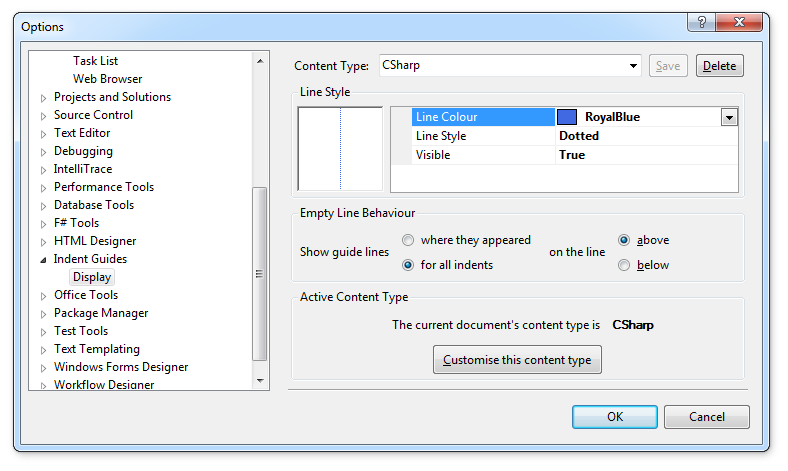
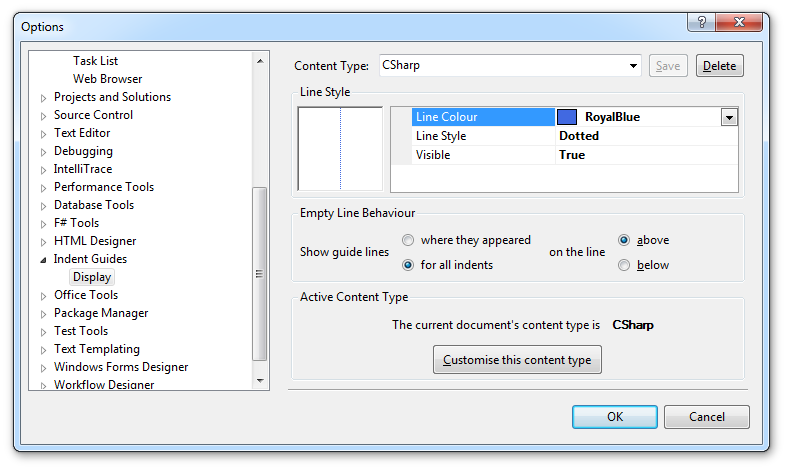
v9.2: Fixed crashes for active non-editor windows when opening options dialog Updated screenshots.

Changed region(s): [[0.0, 0.9512, 0.9746, 0.9809], [0.9746, 0.0297, 1.0, 0.9512]]

diff --git a/DisplayOptions.cs b/DisplayOptions.cs
@@ -1,6 +1,7 @@
 using System;
 using System.Collections.Generic;
 using System.ComponentModel;
+using System.Diagnostics;
 using System.Drawing;
 using System.Linq;
 using System.Runtime.InteropServices;
@@ -73,13 +74,20 @@ namespace IndentGuide
 
         public override void LoadSettingsFromStorage()
         {
-            var reg = RegistryRoot;
             Themes.Clear();
-            foreach (var themeName in reg.GetSubKeyNames())
+            try
             {
-                var theme = IndentTheme.Load(reg, themeName);
-                if (theme.IsDefault) Service.DefaultTheme = theme;
-                Themes[theme.Name] = theme;
+                var reg = RegistryRoot;
+                foreach (var themeName in reg.GetSubKeyNames())
+                {
+                    var theme = IndentTheme.Load(reg, themeName);
+                    if (theme.IsDefault) Service.DefaultTheme = theme;
+                    Themes[theme.Name] = theme;
+                }
+            }
+            catch(Exception ex)
+            {
+                Trace.WriteLine(string.Format("LoadSettingsFromStorage: {0}", ex), "IndentGuide");
             }
             Service.OnThemesChanged();
         }
@@ -99,10 +107,19 @@ namespace IndentGuide
 
         public override void SaveSettingsToStorage()
         {
-            var reg = RegistryRootWritable;
-            foreach (var theme in Themes.Values)
+            try
             {
-                theme.Save(reg);
+                using (var reg = RegistryRootWritable)
+                {
+                    foreach (var theme in Themes.Values)
+                    {
+                        theme.Save(reg);
+                    }
+                }
+            }
+            catch(Exception ex)
+            {
+                Trace.WriteLine(string.Format("SaveSettingsToStorage: {0}", ex), "IndentGuide");
             }
         }
 
@@ -117,29 +134,30 @@ namespace IndentGuide
         protected override void OnActivate(CancelEventArgs e)
         {
             base.OnActivate(e);
-            ((DisplayOptionsControl)Window).LocalThemes = 
-                Service.Themes.Values.OrderBy(t => t).Select(t => t.Clone()).ToList();
-            
-            IVsTextView view = null;
-            IWpfTextView wpfView = null;
-            TextManagerService.GetActiveView(0, null, out view);
-            if (view != null && (wpfView = EditorAdapters.GetWpfTextView(view)) != null)
+            var doc = (DisplayOptionsControl)Window;
+            doc.LocalThemes = Service.Themes.Values.OrderBy(t => t).Select(t => t.Clone()).ToList();
+
+            try
             {
-                ((DisplayOptionsControl)Window).CurrentContentType = wpfView.TextDataModel.ContentType.DisplayName;
+                IVsTextView view = null;
+                IWpfTextView wpfView = null;
+                TextManagerService.GetActiveView(0, null, out view);
+                wpfView = EditorAdapters.GetWpfTextView(view);
+                doc.CurrentContentType = wpfView.TextDataModel.ContentType.DisplayName;
             }
-            else
+            catch
             {
-                ((DisplayOptionsControl)Window).CurrentContentType = null;
+                doc.CurrentContentType = null;
             }
         }
 
         protected override void OnApply(DialogPage.PageApplyEventArgs e)
         {
-            var window = (DisplayOptionsControl)Window;
-            window.SaveIfRequired();
+            var doc = (DisplayOptionsControl)Window;
+            doc.SaveIfRequired();
             
-            var changedThemes = window.ChangedThemes;
-            var deletedThemes = window.DeletedThemes;
+            var changedThemes = doc.ChangedThemes;
+            var deletedThemes = doc.DeletedThemes;
             if (changedThemes.Any())
             {
                 foreach (var theme in changedThemes)
@@ -185,31 +203,38 @@ namespace IndentGuide
         
         private void Upgrade()
         {
-            if (RegistryRoot != null) return;
-
-            var vsRoot = VSRegistry.RegistryRoot(Microsoft.VisualStudio.Shell.Interop.__VsLocalRegistryType.RegType_UserSettings, true);
-
-            using (var newKey = vsRoot.CreateSubKey("IndentGuide"))
-            using (var key = vsRoot.OpenSubKey(SettingsRegistryPath))
+            try
             {
-                var theme = new IndentTheme(true);
-                if (key != null)
-                {
-                    theme.Name = (string)key.GetValue("Name", IndentTheme.DefaultThemeName);
-                    theme.EmptyLineMode = (EmptyLineMode)TypeDescriptor.GetConverter(typeof(EmptyLineMode))
-                        .ConvertFromInvariantString((string)key.GetValue("EmptyLineMode"));
+                if (RegistryRoot != null) return;
 
-                    theme.LineFormat.LineColor = (Color)TypeDescriptor.GetConverter(typeof(Color))
-                        .ConvertFromInvariantString((string)key.GetValue("LineColor"));
-                    theme.LineFormat.LineStyle = (LineStyle)TypeDescriptor.GetConverter(typeof(LineStyle))
-                        .ConvertFromInvariantString((string)key.GetValue("LineStyle"));
-                    theme.LineFormat.Visible = bool.Parse((string)key.GetValue("Visible"));
+                var vsRoot = VSRegistry.RegistryRoot(Microsoft.VisualStudio.Shell.Interop.__VsLocalRegistryType.RegType_UserSettings, true);
+
+                using (var newKey = vsRoot.CreateSubKey("IndentGuide"))
+                using (var key = vsRoot.OpenSubKey(SettingsRegistryPath))
+                {
+                    var theme = new IndentTheme(true);
+                    if (key != null)
+                    {
+                        theme.Name = (string)key.GetValue("Name", IndentTheme.DefaultThemeName);
+                        theme.EmptyLineMode = (EmptyLineMode)TypeDescriptor.GetConverter(typeof(EmptyLineMode))
+                            .ConvertFromInvariantString((string)key.GetValue("EmptyLineMode"));
+
+                        theme.LineFormat.LineColor = (Color)TypeDescriptor.GetConverter(typeof(Color))
+                            .ConvertFromInvariantString((string)key.GetValue("LineColor"));
+                        theme.LineFormat.LineStyle = (LineStyle)TypeDescriptor.GetConverter(typeof(LineStyle))
+                            .ConvertFromInvariantString((string)key.GetValue("LineStyle"));
+                        theme.LineFormat.Visible = bool.Parse((string)key.GetValue("Visible"));
+                    }
+
+                    theme.Save(newKey);
                 }
 
-                theme.Save(newKey);
+                vsRoot.DeleteSubKeyTree(SettingsRegistryPath, false);
             }
-
-            vsRoot.DeleteSubKeyTree(SettingsRegistryPath, false);
+            catch (Exception ex)
+            {
+                Trace.WriteLine(string.Format("Upgrade: {0}", ex), "IndentGuide");
+            }
         }
 
         #endregion

diff --git a/DisplayOptionsControl.cs b/DisplayOptionsControl.cs
@@ -1,10 +1,8 @@
 using System;
 using System.Collections.Generic;
-using System.ComponentModel;
+using System.Diagnostics;
 using System.Drawing;
-using System.Data;
 using System.Linq;
-using System.Text;
 using System.Windows.Forms;
 using Microsoft.VisualStudio.Shell;
 
@@ -38,17 +36,24 @@ namespace IndentGuide
             set
             {
                 _LocalThemes = value;
-                ChangedThemes.Clear();
-                DeletedThemes.Clear();
-                if (_LocalThemes.Count == 0)
+                try
                 {
-                    var defaultTheme = new IndentTheme(true);
-                    _LocalThemes.Add(defaultTheme);
-                    ChangedThemes.Add(defaultTheme);
-                    if (OptionsOwner != null) defaultTheme.Save(OptionsOwner.RegistryRootWritable);
-                }
+                    ChangedThemes.Clear();
+                    DeletedThemes.Clear();
+                    if (_LocalThemes.Count == 0)
+                    {
+                        var defaultTheme = new IndentTheme(true);
+                        _LocalThemes.Add(defaultTheme);
+                        ChangedThemes.Add(defaultTheme);
+                        if (OptionsOwner != null) defaultTheme.Save(OptionsOwner.RegistryRootWritable);
+                    }
 
-                Invoke((Action)UpdateThemeList);
+                    Invoke((Action)UpdateThemeList);
+                }
+                catch (Exception ex)
+                {
+                    Trace.WriteLine(string.Format("get_LocalThemes: {0}", ex), "IndentGuide");
+                }
             }
         }
 
@@ -66,30 +71,44 @@ namespace IndentGuide
 
         private void UpdateThemeList()
         {
-            cmbTheme.Items.Clear();
-            foreach (var theme in LocalThemes)
+            try
             {
-                cmbTheme.Items.Add(theme);
+                cmbTheme.Items.Clear();
+                foreach (var theme in LocalThemes)
+                {
+                    cmbTheme.Items.Add(theme);
+                }
+                if (cmbTheme.Items.Count > 0) cmbTheme.SelectedIndex = 0;
+                btnThemeDelete.Enabled = false;
+                btnThemeSaveAs.Enabled = false;
             }
-            if (cmbTheme.Items.Count > 0) cmbTheme.SelectedIndex = 0;
-            btnThemeDelete.Enabled = false;
-            btnThemeSaveAs.Enabled = false;
+            catch (Exception ex)
+            {
+                Trace.WriteLine(string.Format("UpdateThemeList: {0}", ex), "IndentGuide");
+            }
         }
 
         private void LoadControlStrings(IEnumerable<Control> controls)
         {
-            foreach (var control in controls)
+            try
             {
-                try
+                foreach (var control in controls)
                 {
-                    control.Text = ResourceLoader.LoadString(control.Name);
-                }
-                catch (InvalidOperationException) { }
+                    try
+                    {
+                        control.Text = ResourceLoader.LoadString(control.Name);
+                    }
+                    catch (InvalidOperationException) { }
 
-                if (control.Controls.Count > 0)
-                {
-                    LoadControlStrings(control.Controls.OfType<Control>());
+                    if (control.Controls.Count > 0)
+                    {
+                        LoadControlStrings(control.Controls.OfType<Control>());
+                    }
                 }
+            }
+            catch (Exception ex)
+            {
+                Trace.WriteLine(string.Format("LoadControlStrings: {0}", ex), "IndentGuide");
             }
         }
 
@@ -101,7 +120,14 @@ namespace IndentGuide
 
         private void cmbTheme_Format(object sender, ListControlConvertEventArgs e)
         {
-            e.Value = ((IndentTheme)e.ListItem).Name;
+            try
+            {
+                e.Value = ((IndentTheme)e.ListItem).Name;
+            }
+            catch
+            {
+                e.Value = (e.ListItem ?? "(null)").ToString();
+            }
         }
 
         private IndentTheme ActiveTheme = null;
@@ -199,18 +225,24 @@ namespace IndentGuide
 
         private void btnThemeDelete_Click(object sender, EventArgs e)
         {
-            if (ActiveTheme == null) return;
-            if (ActiveTheme.IsDefault) return;
+            if (ActiveTheme == null || ActiveTheme.IsDefault) return;
 
-            DeletedThemes.Add(ActiveTheme);
-            LocalThemes.Remove(ActiveTheme);
+            try
+            {
+                DeletedThemes.Add(ActiveTheme);
+                LocalThemes.Remove(ActiveTheme);
 
-            int i = cmbTheme.SelectedIndex;
-            cmbTheme.Items.Remove(ActiveTheme);
-            if (i < cmbTheme.Items.Count) cmbTheme.SelectedIndex = i;
-            else cmbTheme.SelectedIndex = cmbTheme.Items.Count - 1;
-            ActiveTheme = cmbTheme.SelectedItem as IndentTheme;
-            UpdateDisplay();
+                int i = cmbTheme.SelectedIndex;
+                cmbTheme.Items.Remove(ActiveTheme);
+                if (i < cmbTheme.Items.Count) cmbTheme.SelectedIndex = i;
+                else cmbTheme.SelectedIndex = cmbTheme.Items.Count - 1;
+                ActiveTheme = cmbTheme.SelectedItem as IndentTheme;
+                UpdateDisplay();
+            }
+            catch (Exception ex)
+            {
+                Trace.WriteLine(string.Format("btnThemeDelete_Click: {0}", ex), "IndentGuide");
+            }
         }
 
         private void chkEmptyLineBehaviour_CheckedChanged(object sender, EventArgs e)
@@ -233,16 +265,23 @@ namespace IndentGuide
 
         private void btnCustomizeThisContentType_Click(object sender, EventArgs e)
         {
-            var theme = LocalThemes.FirstOrDefault(t => t.Name.Equals(CurrentContentType,
-                StringComparison.InvariantCultureIgnoreCase));
-            if (theme == null)
+            try
             {
-                cmbTheme.Text = CurrentContentType;
-                btnThemeSaveAs.PerformClick();
+                var theme = LocalThemes.FirstOrDefault(t => t.Name.Equals(CurrentContentType,
+                    StringComparison.InvariantCultureIgnoreCase));
+                if (theme == null)
+                {
+                    cmbTheme.Text = CurrentContentType;
+                    btnThemeSaveAs.PerformClick();
+                }
+                else
+                {
+                    cmbTheme.SelectedItem = theme;
+                }
             }
-            else
+            catch (Exception ex)
             {
-                cmbTheme.SelectedItem = theme;
+                Trace.WriteLine(string.Format("btnCustomizeThisContentType_Click: {0}", ex), "IndentGuide");
             }
         }
 

diff --git a/IndentGuidePackage.cs b/IndentGuidePackage.cs
@@ -7,7 +7,7 @@ using Microsoft.VisualStudio.Shell;
 namespace IndentGuide
 {
     [PackageRegistration(UseManagedResourcesOnly = true)]
-    [InstalledProductRegistration("#110", "#112", "9.1", IconResourceID = 400)]
+    [InstalledProductRegistration("#110", "#112", "9.2", IconResourceID = 400)]
     [ProvideMenuResource(1000, 1)]
     [ProvideOptionPage(typeof(DisplayOptions), "IndentGuide", "Display", 110, 120, true)]
     [ProvideProfile(typeof(DisplayOptions), "IndentGuide", "Display", 110, 120, true)]

diff --git a/Properties/AssemblyInfo.cs b/Properties/AssemblyInfo.cs
@@ -30,6 +30,6 @@ using System.Resources;
 // You can specify all the values or you can default the Build and Revision Numbers 
 // by using the '*' as shown below:
 // [assembly: AssemblyVersion("1.0.*")]
-[assembly: AssemblyVersion("9.1.0.0")]
-[assembly: AssemblyFileVersion("9.1.0.0")]
+[assembly: AssemblyVersion("9.2.0.0")]
+[assembly: AssemblyFileVersion("9.2.0.0")]
 [assembly: NeutralResourcesLanguageAttribute("en-US")]

diff --git a/Strings.Designer.cs b/Strings.Designer.cs
@@ -331,7 +331,7 @@ namespace IndentGuide {
         }
         
         /// <summary>
-        ///   Looks up a localized string similar to not known..
+        ///   Looks up a localized string similar to not available..
         /// </summary>
         internal static string UnknownContentType {
             get {
